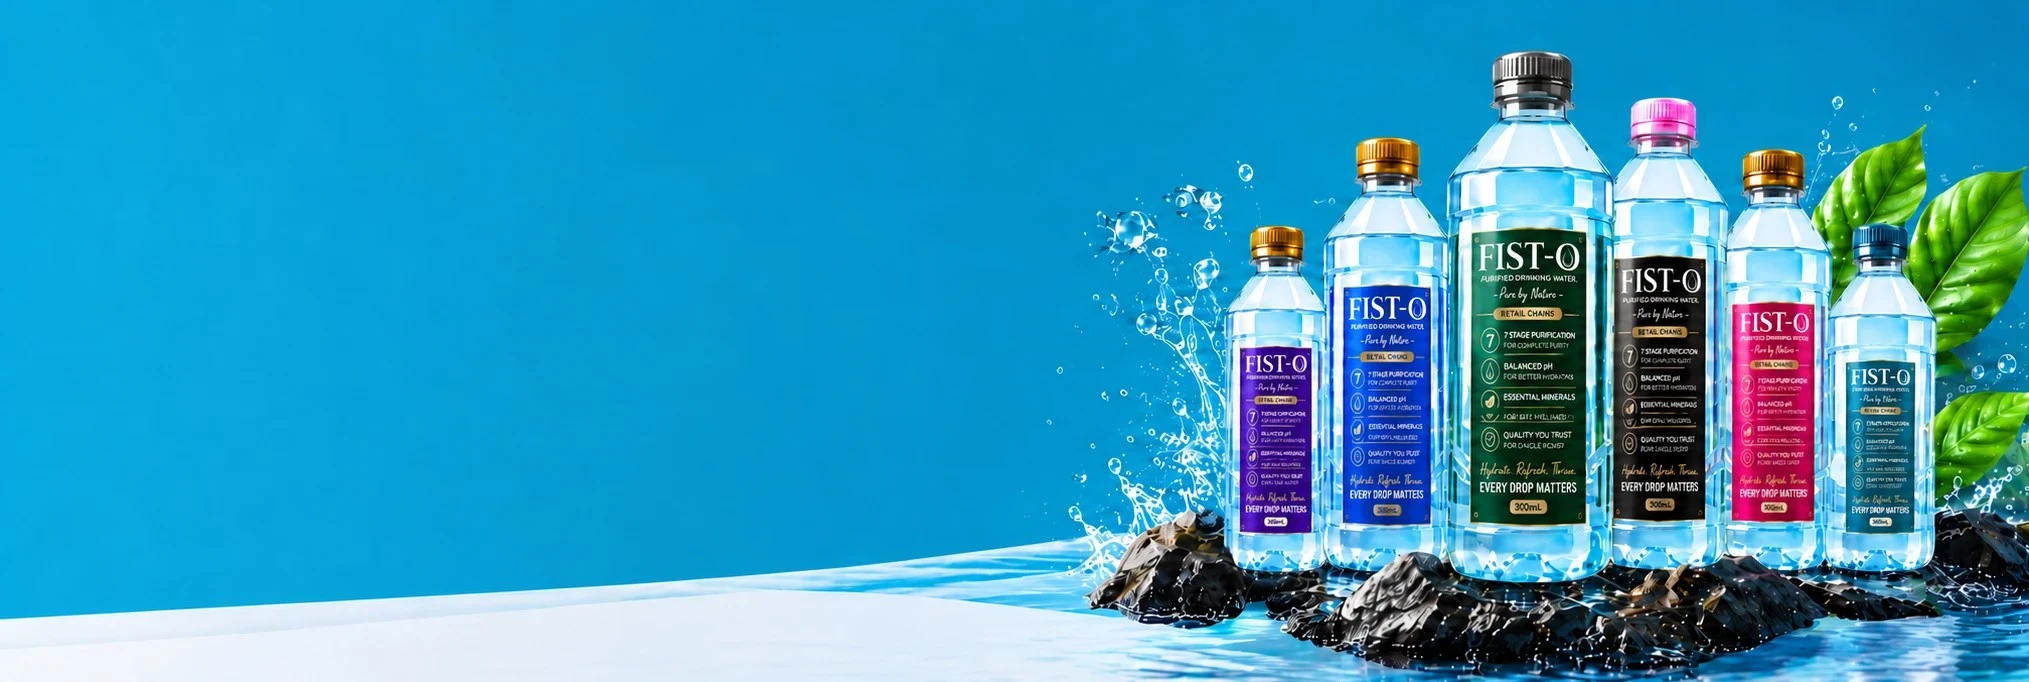
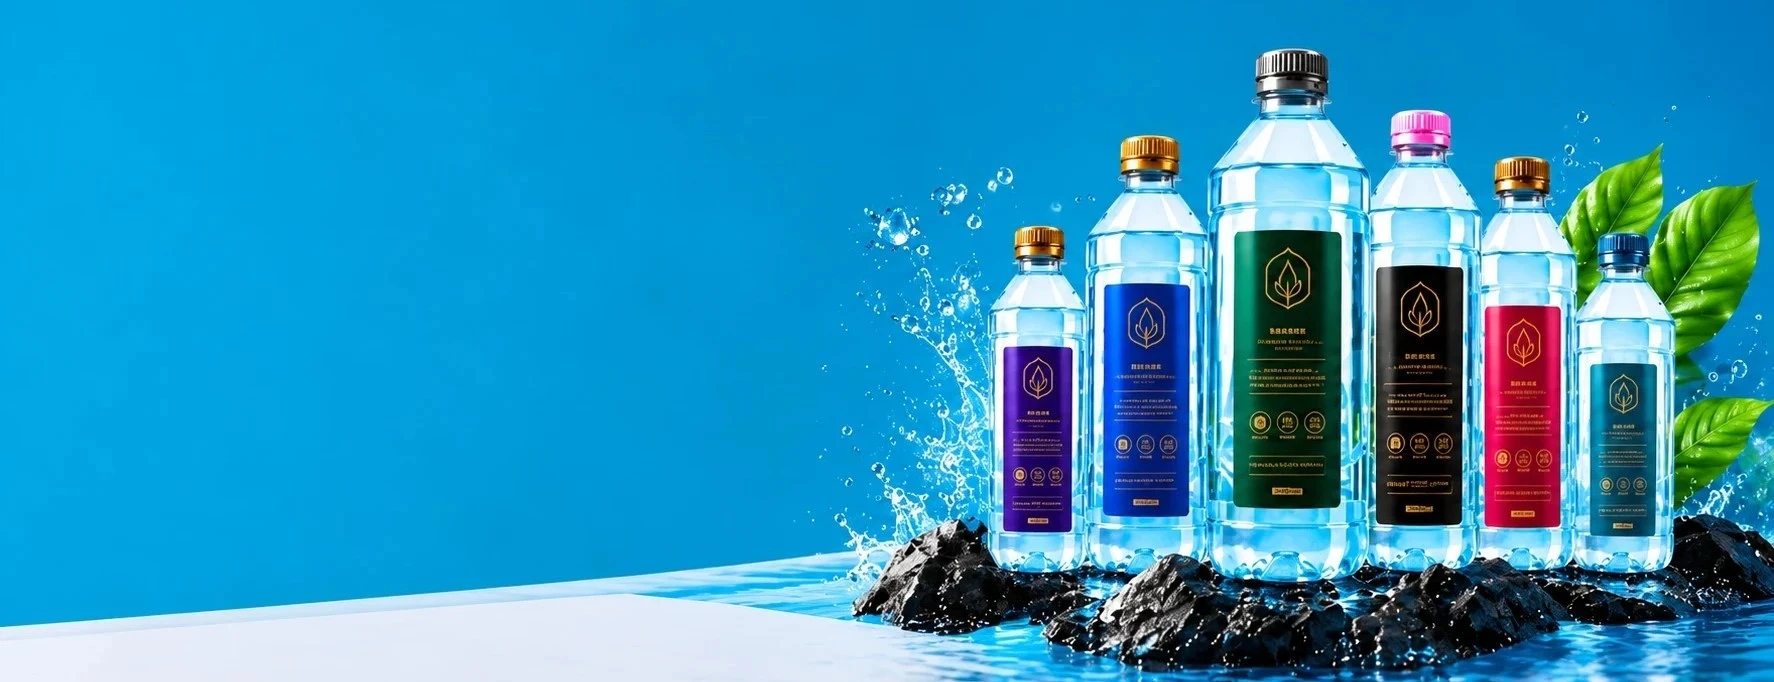
correction updated

diff --git a/script.js b/script.js
@@ -1,3 +1,9 @@
+// Force scroll to top on refresh
+if (history.scrollRestoration) {
+    history.scrollRestoration = 'manual';
+}
+window.scrollTo(0, 0);
+
 // Removed liquid.js import
 
 gsap.registerPlugin(ScrollTrigger);
@@ -65,6 +71,26 @@ gsap.ticker.add((time) => {
 });
 
 gsap.ticker.lagSmoothing(0);
+
+// ==========================================
+// Go to Top Button Logic
+// ==========================================
+const goToTopBtn = document.getElementById('go-to-top');
+if (goToTopBtn) {
+    // Show/hide based on scroll position
+    lenis.on('scroll', (e) => {
+        if (e.scroll > 300) {
+            goToTopBtn.classList.remove('opacity-0', 'translate-y-10', 'pointer-events-none');
+        } else {
+            goToTopBtn.classList.add('opacity-0', 'translate-y-10', 'pointer-events-none');
+        }
+    });
+
+    // Scroll to top on click
+    goToTopBtn.addEventListener('click', () => {
+        lenis.scrollTo(0, { duration: 1.5 });
+    });
+}
 
 // Handle smooth scrolling for anchor links using Lenis
 document.querySelectorAll('a[href^="#"]').forEach(anchor => {
@@ -205,26 +231,30 @@ heroSection.css({
 
 // Initialize Global Ripple Overlay (on top layer of Hero)
 let globalRipple = $('#global-ripple-overlay');
-globalRipple.ripples({
-    resolution: 500,
-    perturbance: 0.01,
-    interactive: false 
-});
-
-// Initialize Top-Layer Ripple Overlays for other sections
 let collTopRipple = $('#collection-top-ripple');
-collTopRipple.ripples({ resolution: 500, perturbance: 0.01, interactive: false });
-
 let galTopRipple = $('#gallery-top-ripple');
-galTopRipple.ripples({ resolution: 500, perturbance: 0.01, interactive: false });
-
 let banTopRipple = $('#banner-top-ripple');
-banTopRipple.ripples({ resolution: 500, perturbance: 0.01, interactive: false });
-
-$('#banner-ripple').ripples({ resolution: 500, perturbance: 0.04, interactive: true });
-
 let conTopRipple = $('#contact-top-ripple');
-conTopRipple.ripples({ resolution: 500, perturbance: 0.01, interactive: false });
+
+$(window).on('load', function() {
+    globalRipple.ripples({
+        resolution: 256,
+        perturbance: 0.01,
+        interactive: false 
+    });
+
+    // Initialize Top-Layer Ripple Overlays for other sections
+    collTopRipple.ripples({ resolution: 256, perturbance: 0.01, interactive: false });
+    galTopRipple.ripples({ resolution: 256, perturbance: 0.01, interactive: false });
+    banTopRipple.ripples({ resolution: 256, perturbance: 0.01, interactive: false });
+    conTopRipple.ripples({ resolution: 256, perturbance: 0.01, interactive: false });
+
+    // Initialize interactive ripples on main background elements of each section
+    $('main').ripples({ resolution: 256, perturbance: 0.04, interactive: true });
+    $('#collection').ripples({ resolution: 256, perturbance: 0.04, interactive: true });
+    $('#gallery-ripple').ripples({ resolution: 256, perturbance: 0.04, interactive: true });
+    $('#banner-ripple').ripples({ resolution: 256, perturbance: 0.04, interactive: true });
+});
 
 // Trigger ripples globally on mouse movement for all top overlays
 $(document).on('mousemove', function(e) {

diff --git a/index.html b/index.html
@@ -214,10 +214,10 @@
     </main>
 
     <!-- Collection Section -->
-    <section id="collection" class="relative w-full min-h-screen lg:h-screen bg-white overflow-hidden py-12 lg:py-20 px-6 md:px-12 lg:px-20" style="background-image: url('./assets/Card_section/Water_bg_1.webp'); background-repeat: no-repeat; background-position: bottom; background-size: 100% auto;">
+    <section id="collection" class="relative w-full min-h-screen lg:h-screen bg-[#092e1b] overflow-hidden py-12 lg:py-20 px-6 md:px-12 lg:px-20" style="background-image: url('./assets/Card_section/Water_bg_1.webp'); background-repeat: no-repeat; background-position: bottom; background-size: cover;">
         
         <!-- Collection Top Ripple Overlay -->
-        <div id="collection-top-ripple" class="absolute inset-0 w-full h-full z-[9999] pointer-events-none mix-blend-overlay opacity-30" style="background-image: url('./assets/Card_section/Water_bg_1.webp'); background-size: 100% auto; background-position: bottom; background-repeat: no-repeat;"></div>
+        <div id="collection-top-ripple" class="absolute inset-0 w-full h-full z-[9999] pointer-events-none mix-blend-overlay opacity-30" style="background-image: url('./assets/Card_section/Water_bg_1.webp'); background-size: cover; background-position: bottom; background-repeat: no-repeat;"></div>
 
 
         <div class="max-w-[1600px] mx-auto grid grid-cols-1 lg:grid-cols-3 gap-10 lg:gap-8 items-center relative z-10 h-full">
@@ -237,7 +237,7 @@
 
             <!-- Center Single Image -->
             <div class="relative w-full min-h-[450px] lg:min-h-[700px] flex items-center justify-center self-center">
-                <div class="relative w-[80%] max-w-[360px] aspect-[4/6]">
+                <div class="relative w-full max-w-[600px] lg:max-w-[800px] xl:max-w-[900px] aspect-[4/6]">
                     <img src="./assets/Bottle/water_bottle.webp" class="w-full h-full object-contain drop-shadow-2xl">
                 </div>
             </div>
@@ -496,6 +496,11 @@
     <!-- Global Ripple Overlay (Absolute to stay at the top hero section) -->
     <div id="global-ripple-overlay" class="absolute top-0 left-0 w-full h-[100vh] z-[9999] pointer-events-none mix-blend-overlay opacity-30" style="background-image: url('./assets/Hero_bg/Hero_bg_1.png'); background-size: cover; background-position: center;"></div>
 
-    <script type="module" src="./script.js?v=2"></script>
+    <!-- Go to Top Button -->
+    <button id="go-to-top" class="fixed bottom-8 right-8 bg-[#0c4a2a] text-white p-3.5 rounded-full shadow-[0_4px_14px_rgba(12,74,42,0.5)] opacity-0 translate-y-10 pointer-events-none transition-all duration-300 z-[10000] hover:bg-[#8CC256] hover:text-[#092e1b] hover:shadow-[0_4px_14px_rgba(140,194,86,0.6)] hover:-translate-y-1">
+        <svg class="w-6 h-6" fill="none" stroke="currentColor" viewBox="0 0 24 24"><path stroke-linecap="round" stroke-linejoin="round" stroke-width="2.5" d="M5 15l7-7 7 7"></path></svg>
+    </button>
+
+    <script type="module" src="./script.js?v=3"></script>
 </body>
 </html>